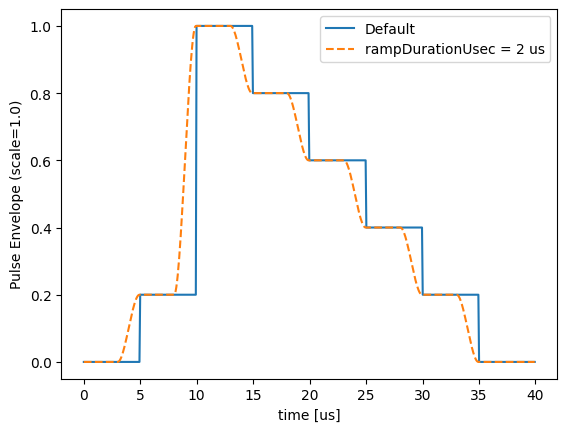
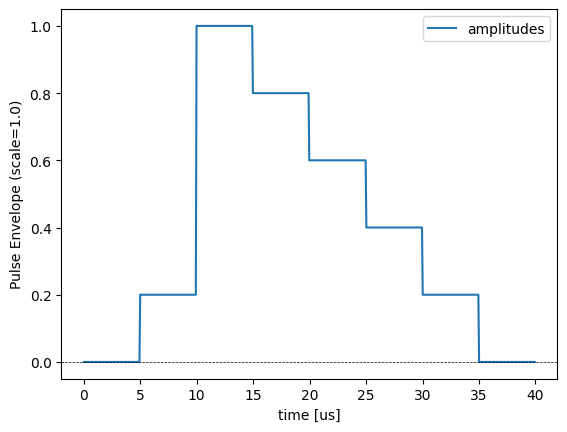
remove ramp field

diff --git a/README-runtime_options.md b/README-runtime_options.md
@@ -150,10 +150,6 @@ The `custom_pulse_shapes` is a payload with the following schema [JSON Schema](h
                             "type": "number",
                             "description": "The total duration of the pulse in microseconds."
                         },
-                        "rampDurationUsec": {
-                            "type": "number",
-                            "description": "(Optional) perform a cubic spline ramp between each amplitude. This is a low-pass filter that preserves pulse area. Must be <= durationUsec / len(amplitudes). Default = 0 (no ramp)."
-                        },
                         "scale": {
                             "type": "number",
                             "minimum": 0.0,
@@ -221,7 +217,6 @@ Below is the payload snippet to add to runtime_options. In this example, all MS 
             "amplitudes": [0,1,5,4,3,2,1,0],
             "durationUsec": 40.0,
             "scale": 1.0,
-            "rampDuration": 2.0,
             "nearestModesIdx": [4,5],
             "relDet": [1,0]
         },
@@ -229,7 +224,6 @@ Below is the payload snippet to add to runtime_options. In this example, all MS 
             "amplitudes": [0,1,2,-2,-1,0],
             "durationUsec": 30.0,
             "scale": 1.0,
-            "rampDuration": 3.0,
             "nearestModesIdx": [4,5],
             "relDet": [1,0]
         }
